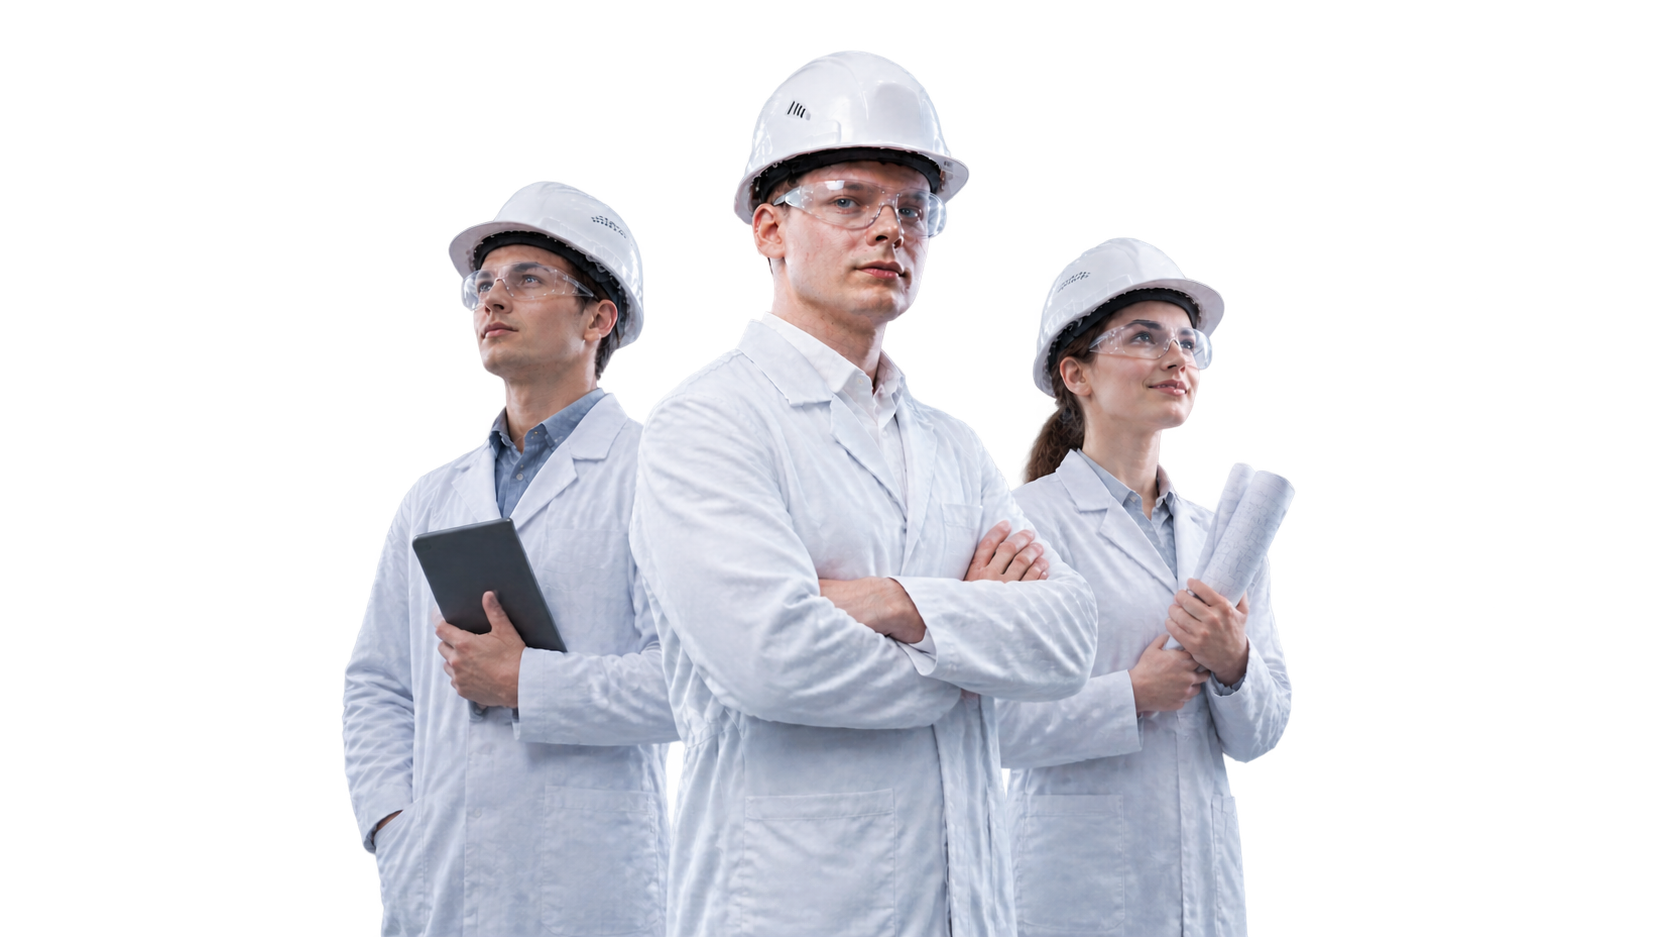
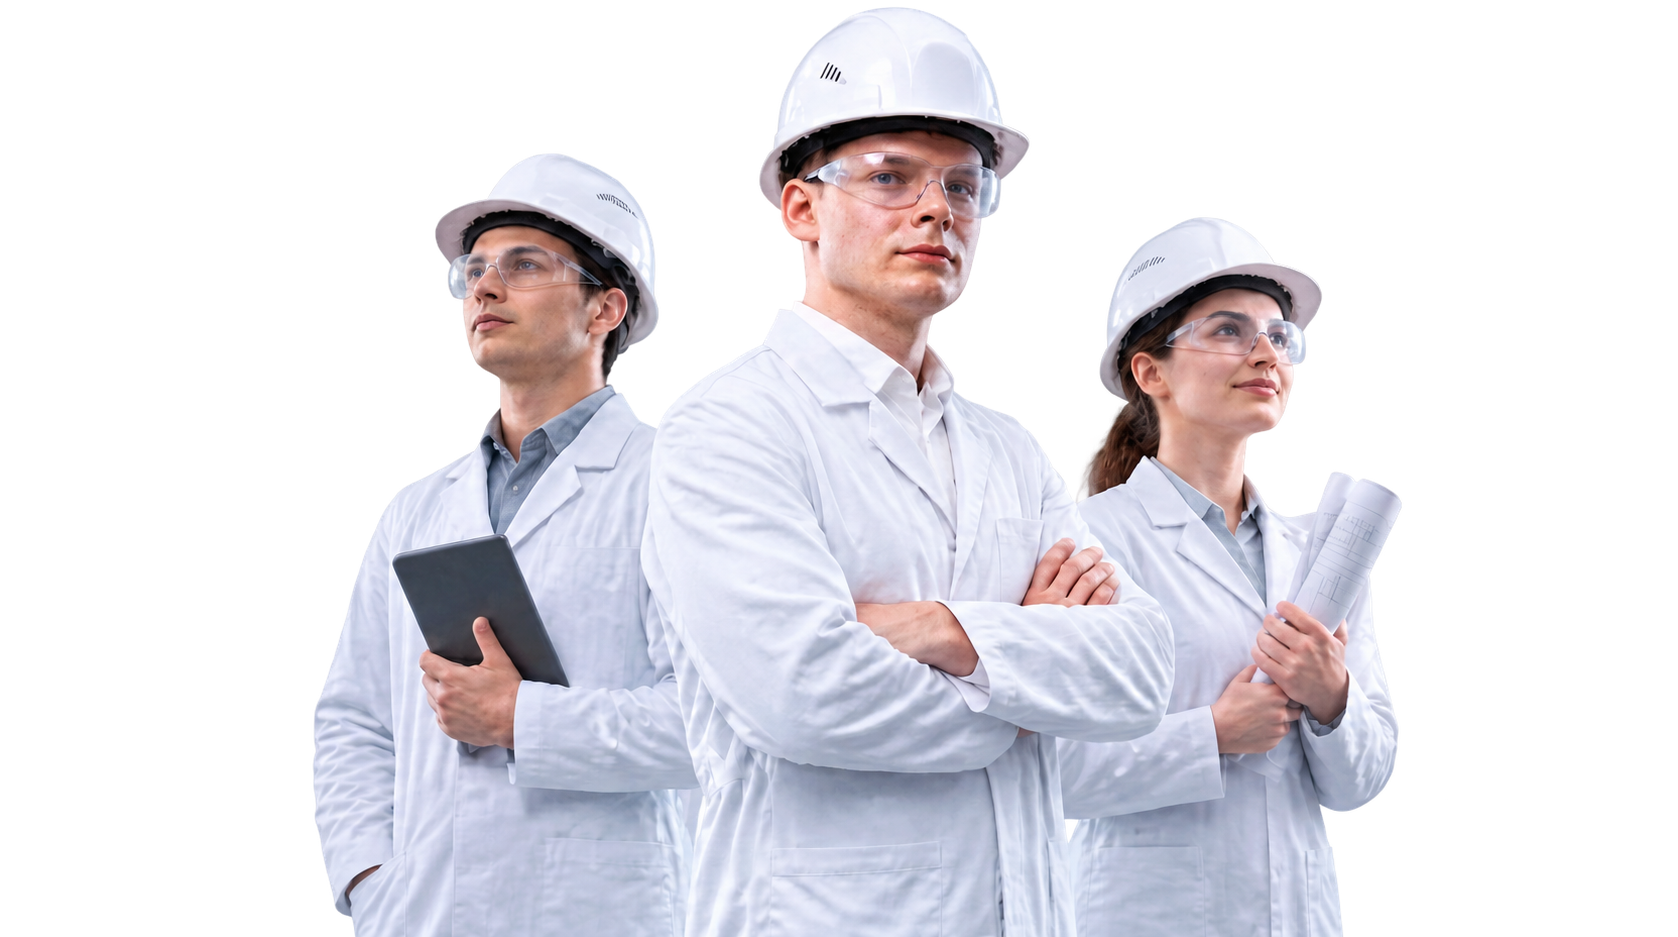
feat: update hero team image, show navbar border on scroll, and remove engineer note

Changed region(s): [[0.1859, 0.0309, 0.8367, 1.0], [0.4958, 0.0, 0.5268, 0.0309]]

diff --git a/src/components/layout/navbar.tsx b/src/components/layout/navbar.tsx
@@ -1,6 +1,6 @@
 "use client";
 
-import { useState } from "react";
+import { useState, useEffect } from "react";
 import { motion, AnimatePresence } from "framer-motion";
 import { Menu, X, Phone, Send } from "lucide-react";
 
@@ -13,9 +13,24 @@ const navLinks = [
 
 export function Navbar() {
   const [isOpen, setIsOpen] = useState(false);
+  const [isScrolled, setIsScrolled] = useState(false);
+
+  useEffect(() => {
+    const handleScroll = () => {
+      setIsScrolled(window.scrollY > 12);
+    };
+
+    handleScroll();
+    window.addEventListener("scroll", handleScroll, { passive: true });
+    return () => window.removeEventListener("scroll", handleScroll);
+  }, []);
 
   return (
-    <nav className="fixed top-0 left-0 right-0 z-50 border-b border-divider bg-surface/90 backdrop-blur-sm">
+    <nav
+      className={`fixed top-0 left-0 right-0 z-50 bg-surface/90 backdrop-blur-sm transition-colors duration-200 border-b ${
+        isScrolled || isOpen ? "border-divider" : "border-transparent"
+      }`}
+    >
       <div className="mx-auto max-w-[1440px] px-6 md:px-12 lg:px-20">
         <div className="flex h-16 items-center justify-between">
           {/* Logo */}

diff --git a/src/components/sections/hero.tsx b/src/components/sections/hero.tsx
@@ -119,7 +119,7 @@ export function Hero() {
             <div className="absolute inset-0 bg-gradient-to-t from-divider/25 via-transparent to-transparent rounded-full blur-3xl pointer-events-none -z-10" />
 
             <img
-              src="/pavel_hero_v2.png"
+              src="/hero_team.png"
               alt="Инженерная группа ACEngine"
               className="w-full h-auto object-contain object-bottom drop-shadow-[0_20px_50px_rgba(19,18,16,0.12)] [mask-image:linear-gradient(to_bottom,black_86%,transparent_100%)]"
               draggable={false}
@@ -277,9 +277,6 @@ export function Hero() {
             <div className="flex flex-wrap items-center gap-x-6 gap-y-1 text-[12px]">
               <span className="text-graphite font-medium">
                 Сборочный участок: Москва · ПНР по всей России
-              </span>
-              <span className="text-pewter">
-                Ведущий инженер — Павел Петров
               </span>
             </div>
           </div>
